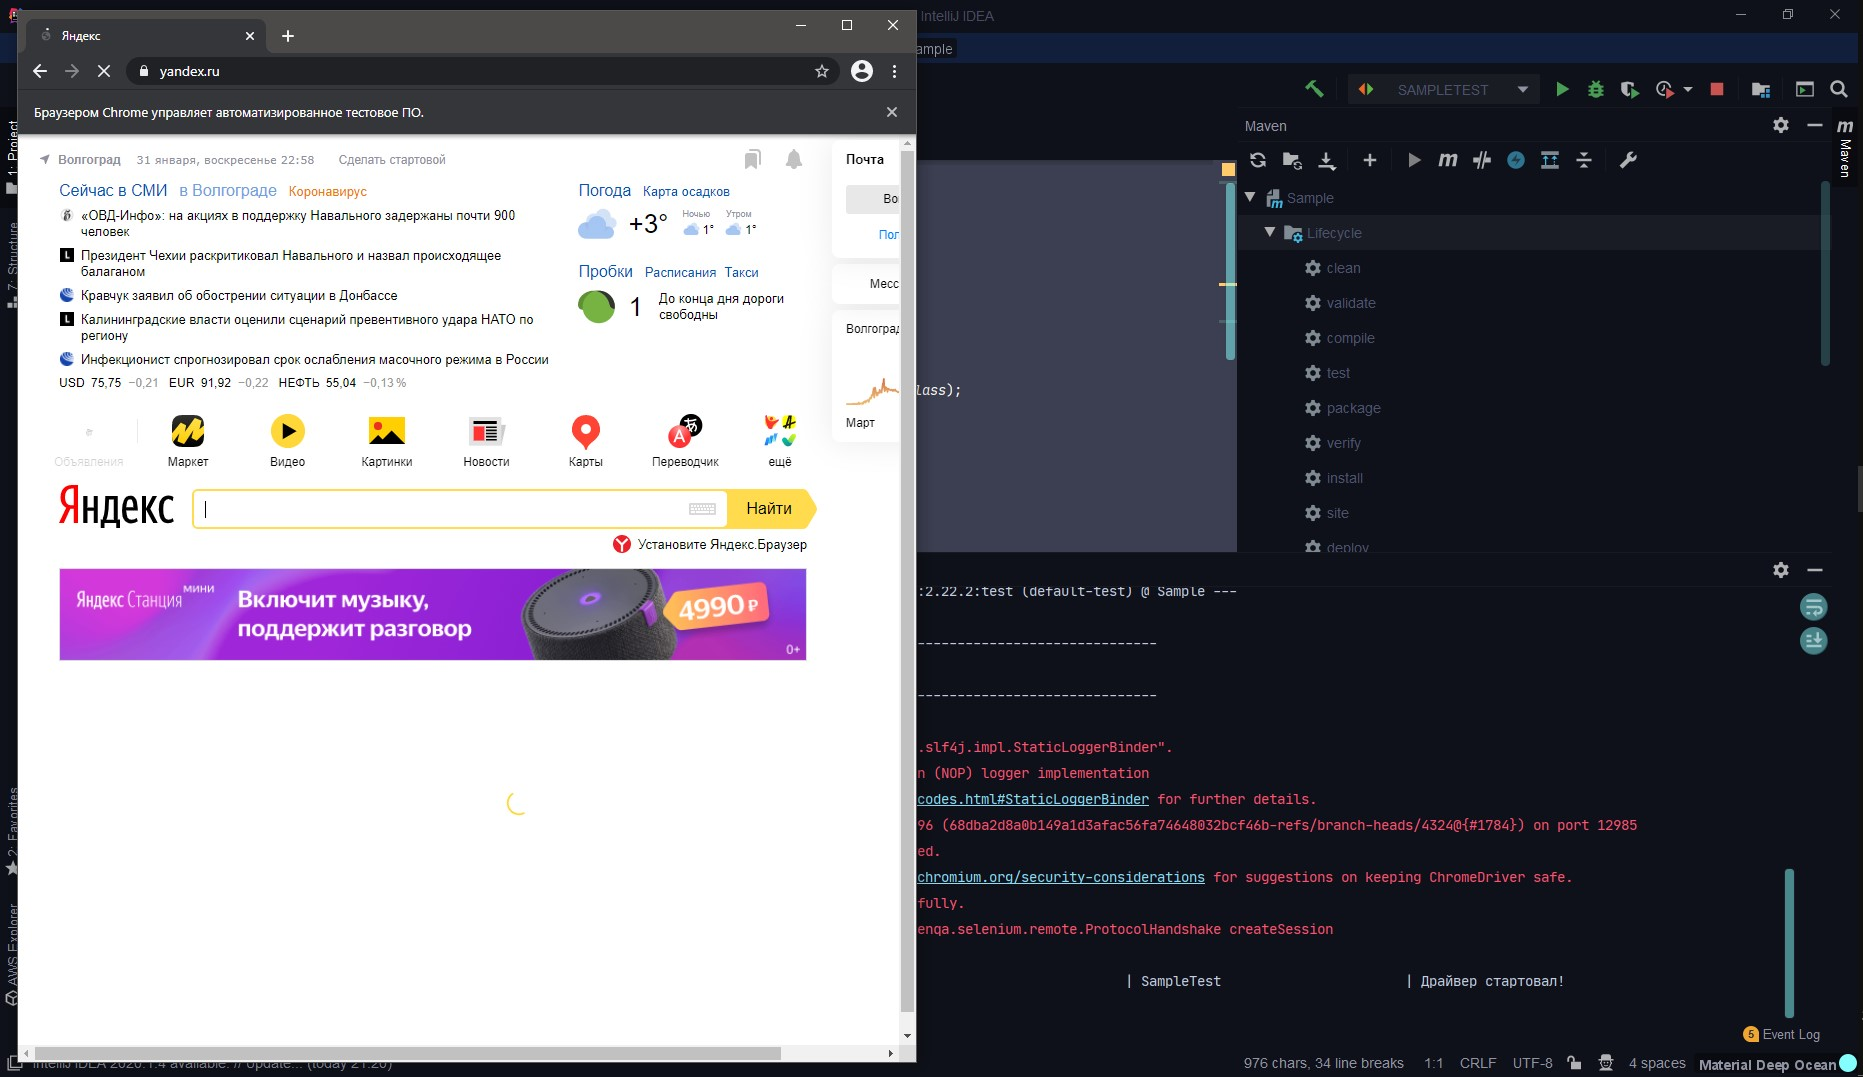
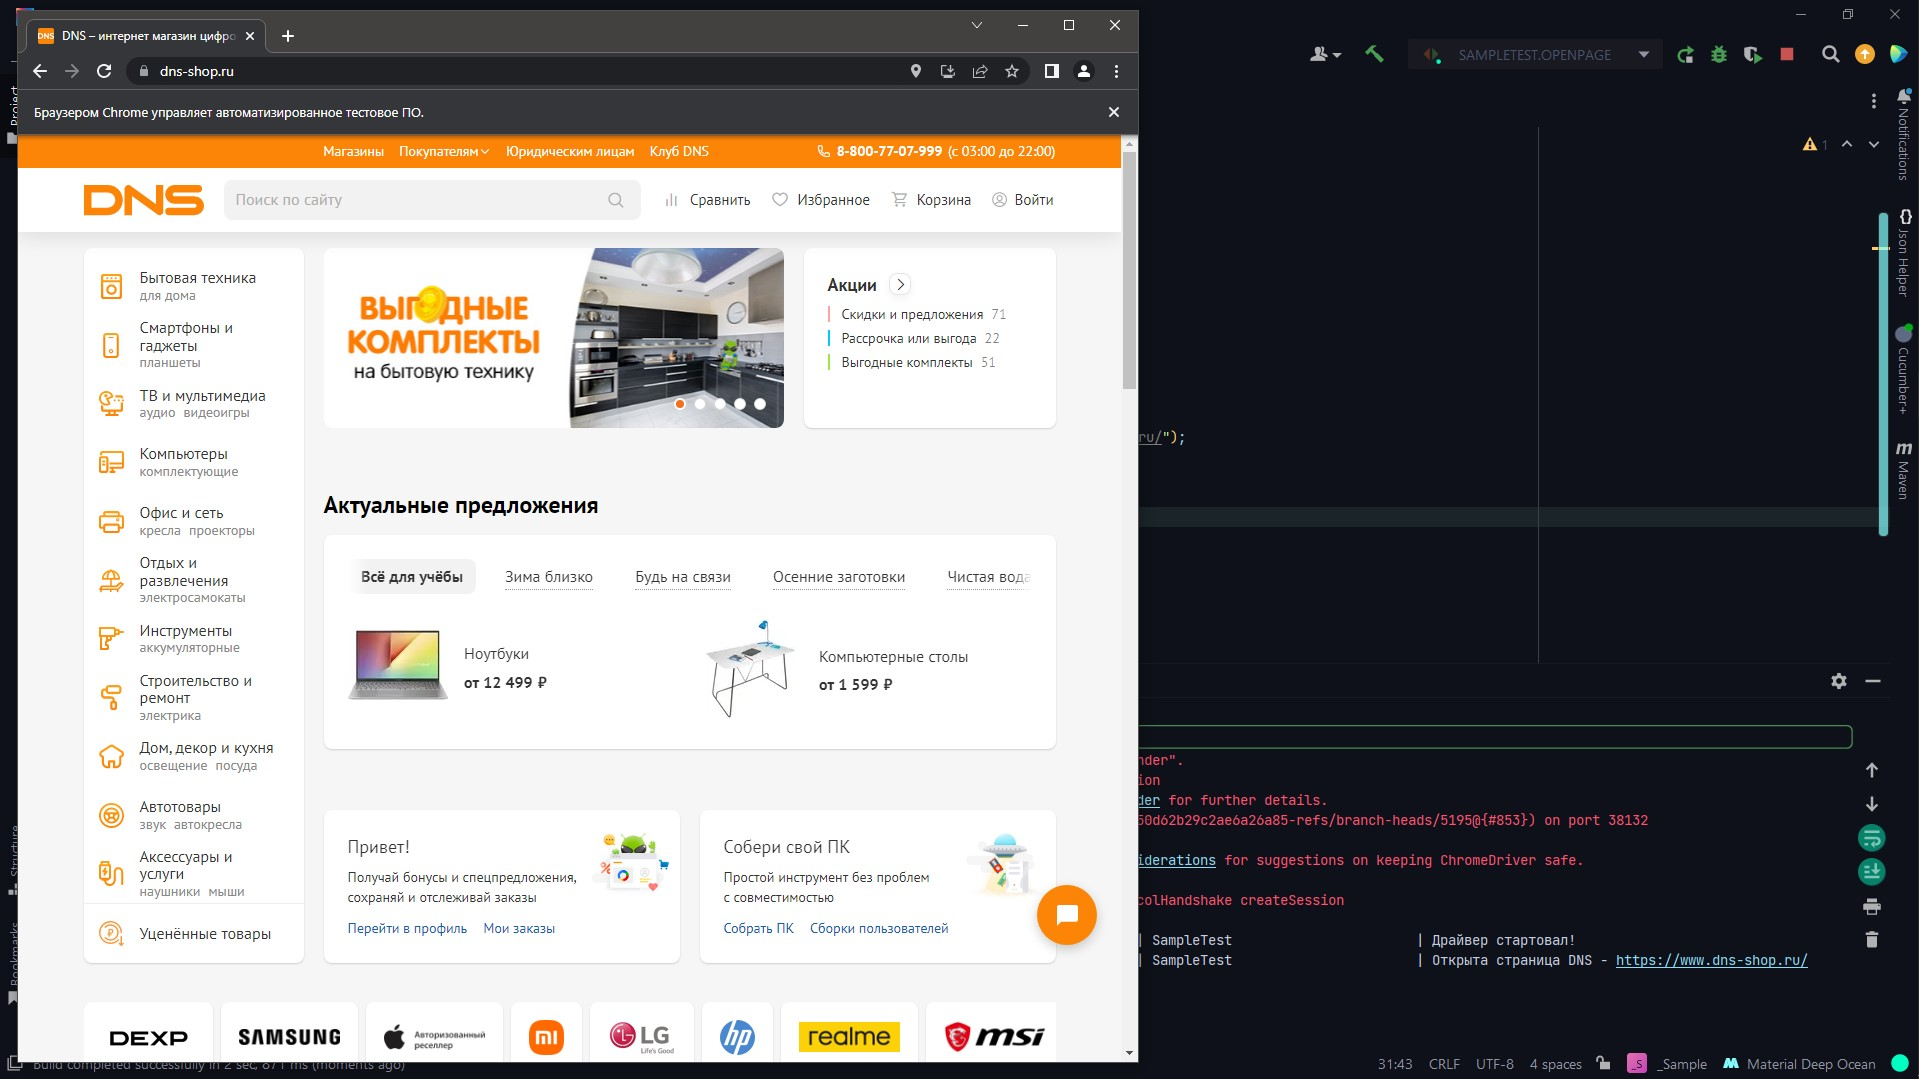
Обновил все

diff --git a/----/02. Selenium WebDriver. Начало/_Sample/src/test/java/SampleTest.java b/----/02. Selenium WebDriver. Начало/_Sample/src/test/java/SampleTest.java
@@ -6,6 +6,9 @@ import org.junit.jupiter.api.BeforeEach;
 import org.junit.jupiter.api.Test;
 import org.openqa.selenium.WebDriver;
 import org.openqa.selenium.chrome.ChromeDriver;
+import org.openqa.selenium.support.ui.Sleeper;
+
+import java.time.Duration;
 
 public class SampleTest {
     protected static WebDriver driver;
@@ -20,8 +23,8 @@ public class SampleTest {
 
     @Test
     public void openPage() {
-        driver.get("https://yandex.ru/");
-        logger.info("Открыта страница Yandex - " + "https://yandex.ru/");
+        driver.get("https://www.dns-shop.ru/");
+        logger.info("Открыта страница DNS - " + "https://www.dns-shop.ru/");
     }
 
     @AfterEach

diff --git a/----/02. Selenium WebDriver. Начало/2. Практика.md b/----/02. Selenium WebDriver. Начало/2. Практика.md
@@ -807,8 +807,8 @@ public class SampleTest {
 
     @Test
     public void openPage() {
-        driver.get("https://yandex.ru/");
-        logger.info("Открыта страница Yandex - " + "https://yandex.ru/");
+        driver.get("https://www.dns-shop.ru/");
+        logger.info("Открыта страница DNS - " + "https://www.dns-shop.ru/");
     }
 
     @AfterEach
